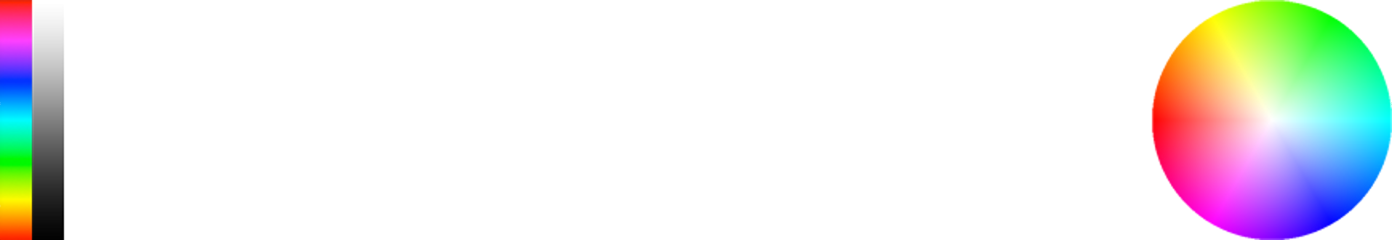
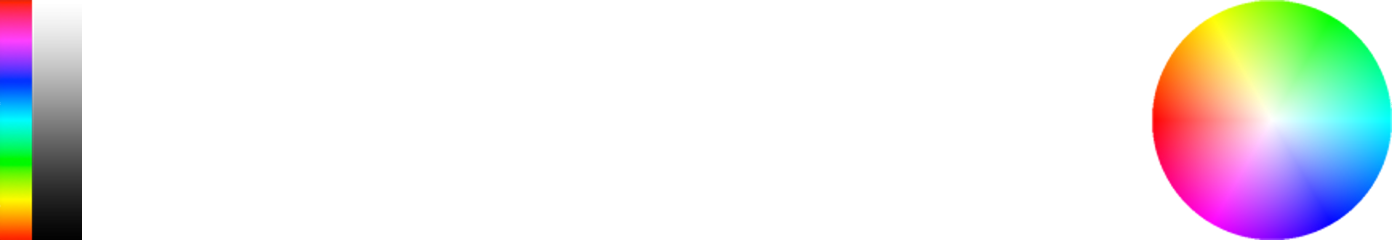
increased slider width
--HG--
branch : 1.2-rgb

Changed region(s): [[0.0309, 0.1458, 0.0618, 1.0]]

diff --git a/bundles/ui/org.openhab.ui.webapp/web/jquery.miniColors.css b/bundles/ui/org.openhab.ui.webapp/web/jquery.miniColors.css
@@ -127,7 +127,7 @@
 	position: absolute;
 	top: 1px;
 	left: 250px;
-	width: 24px;
+	width: 32px;
 	height: 240px;
 	background: white url(jquery.minicolors.png) 0 0;
 	cursor: crosshair;
@@ -183,7 +183,7 @@
 	position: absolute;
 	top: 0;
 	left: 0;
-	width: 20px;
+	width: 28px;
 	height: 2px;
 	background: white;
 	border: solid 2px black;
